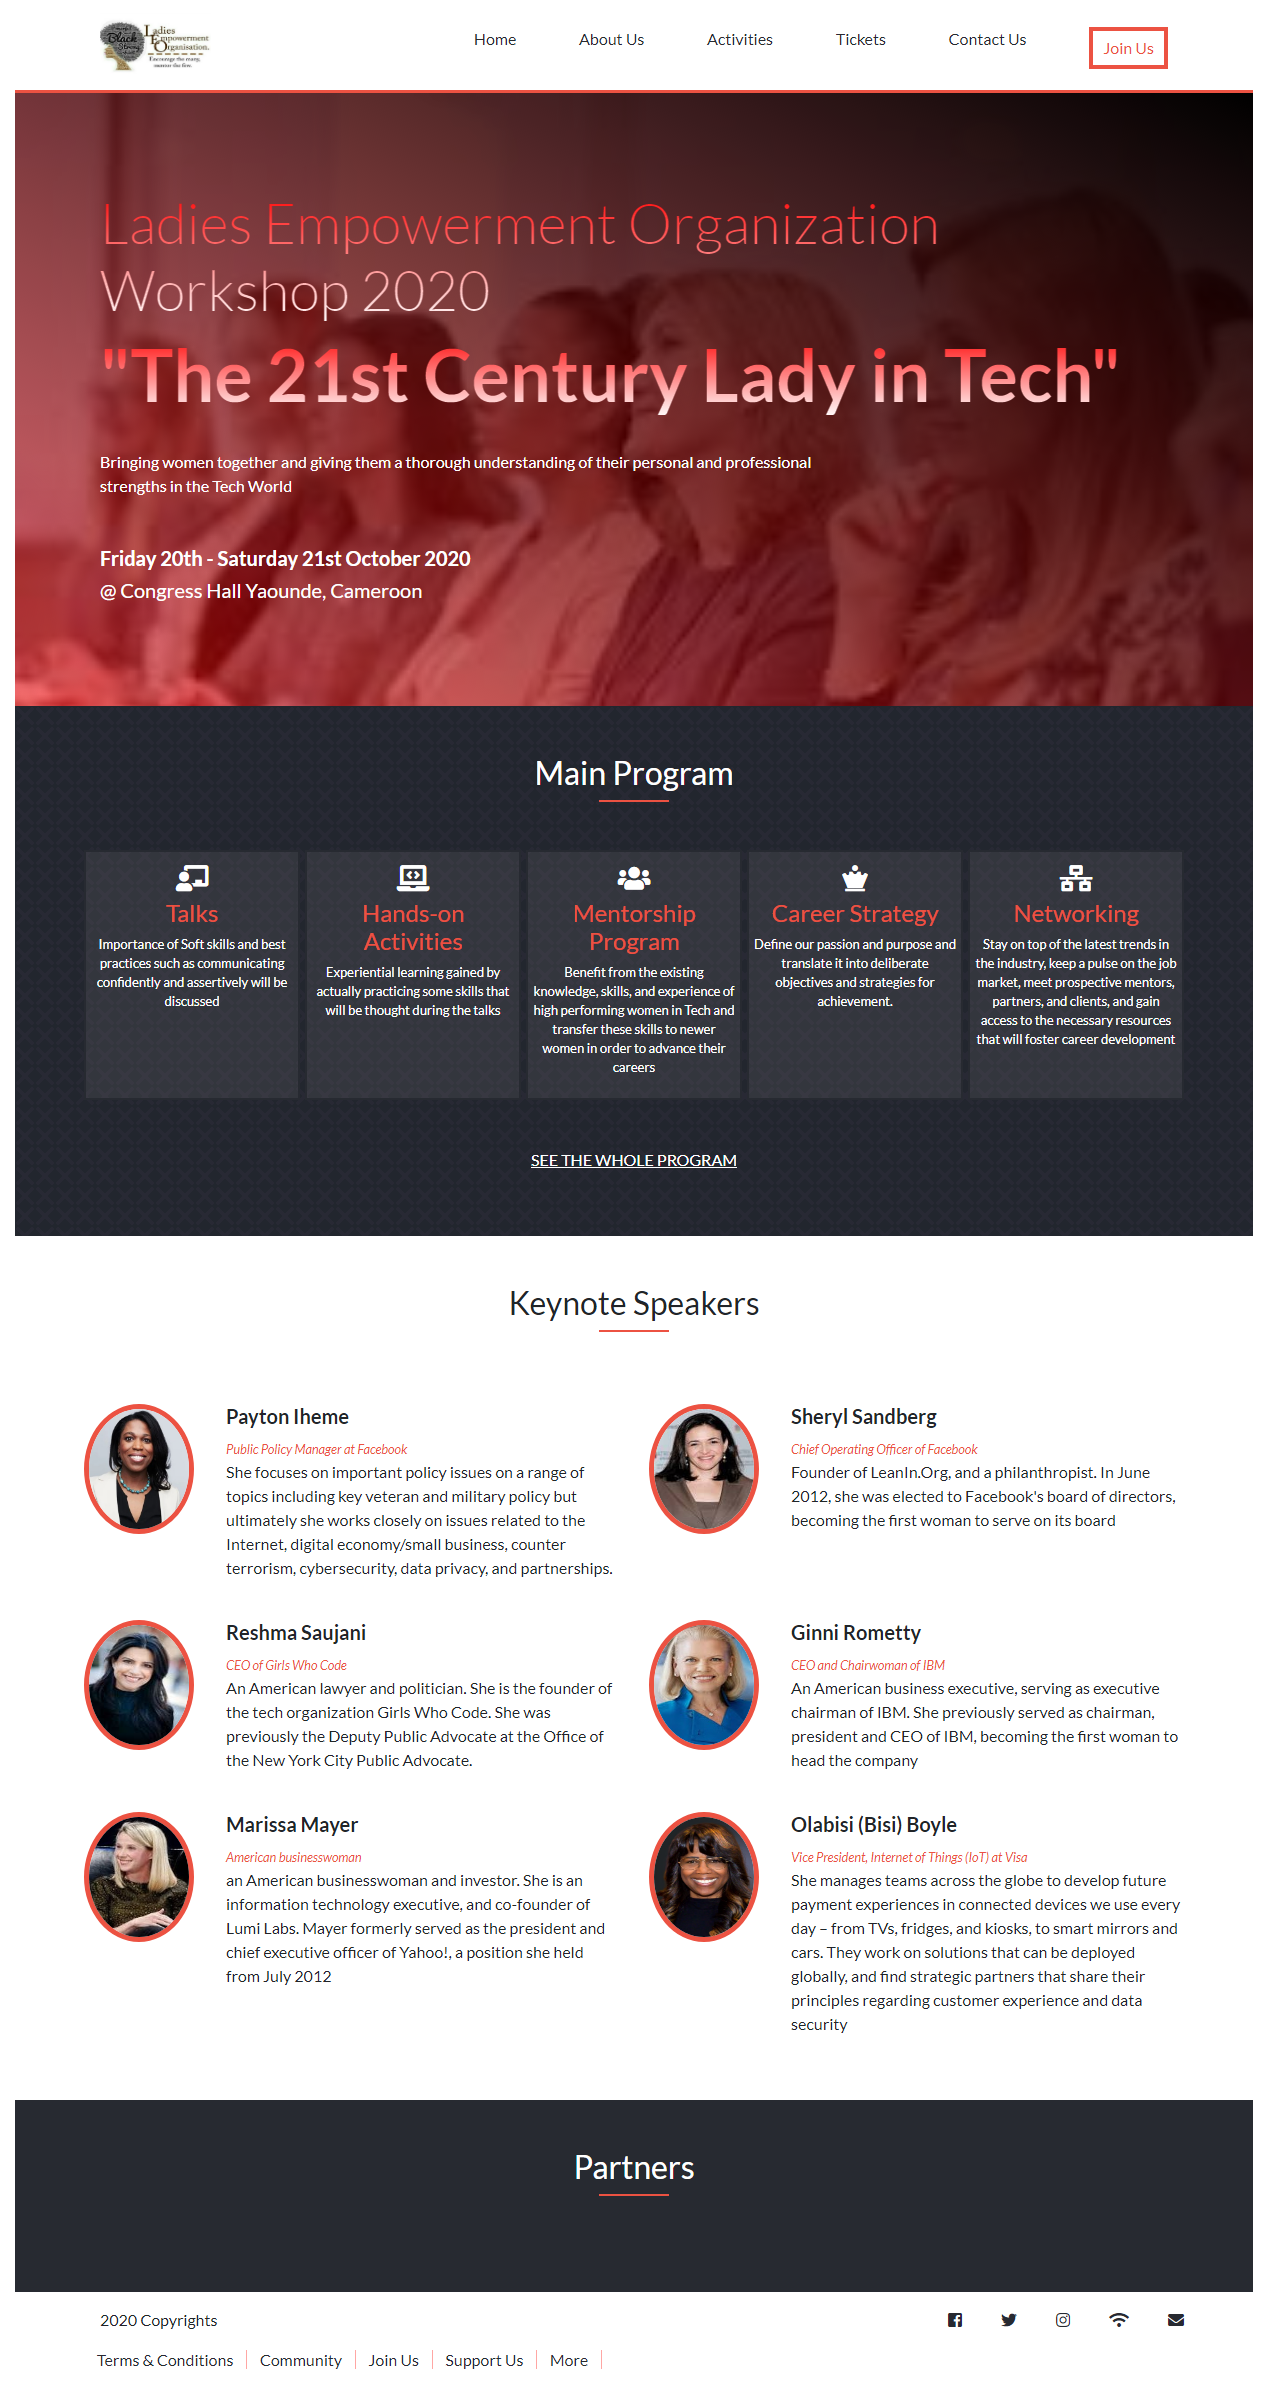
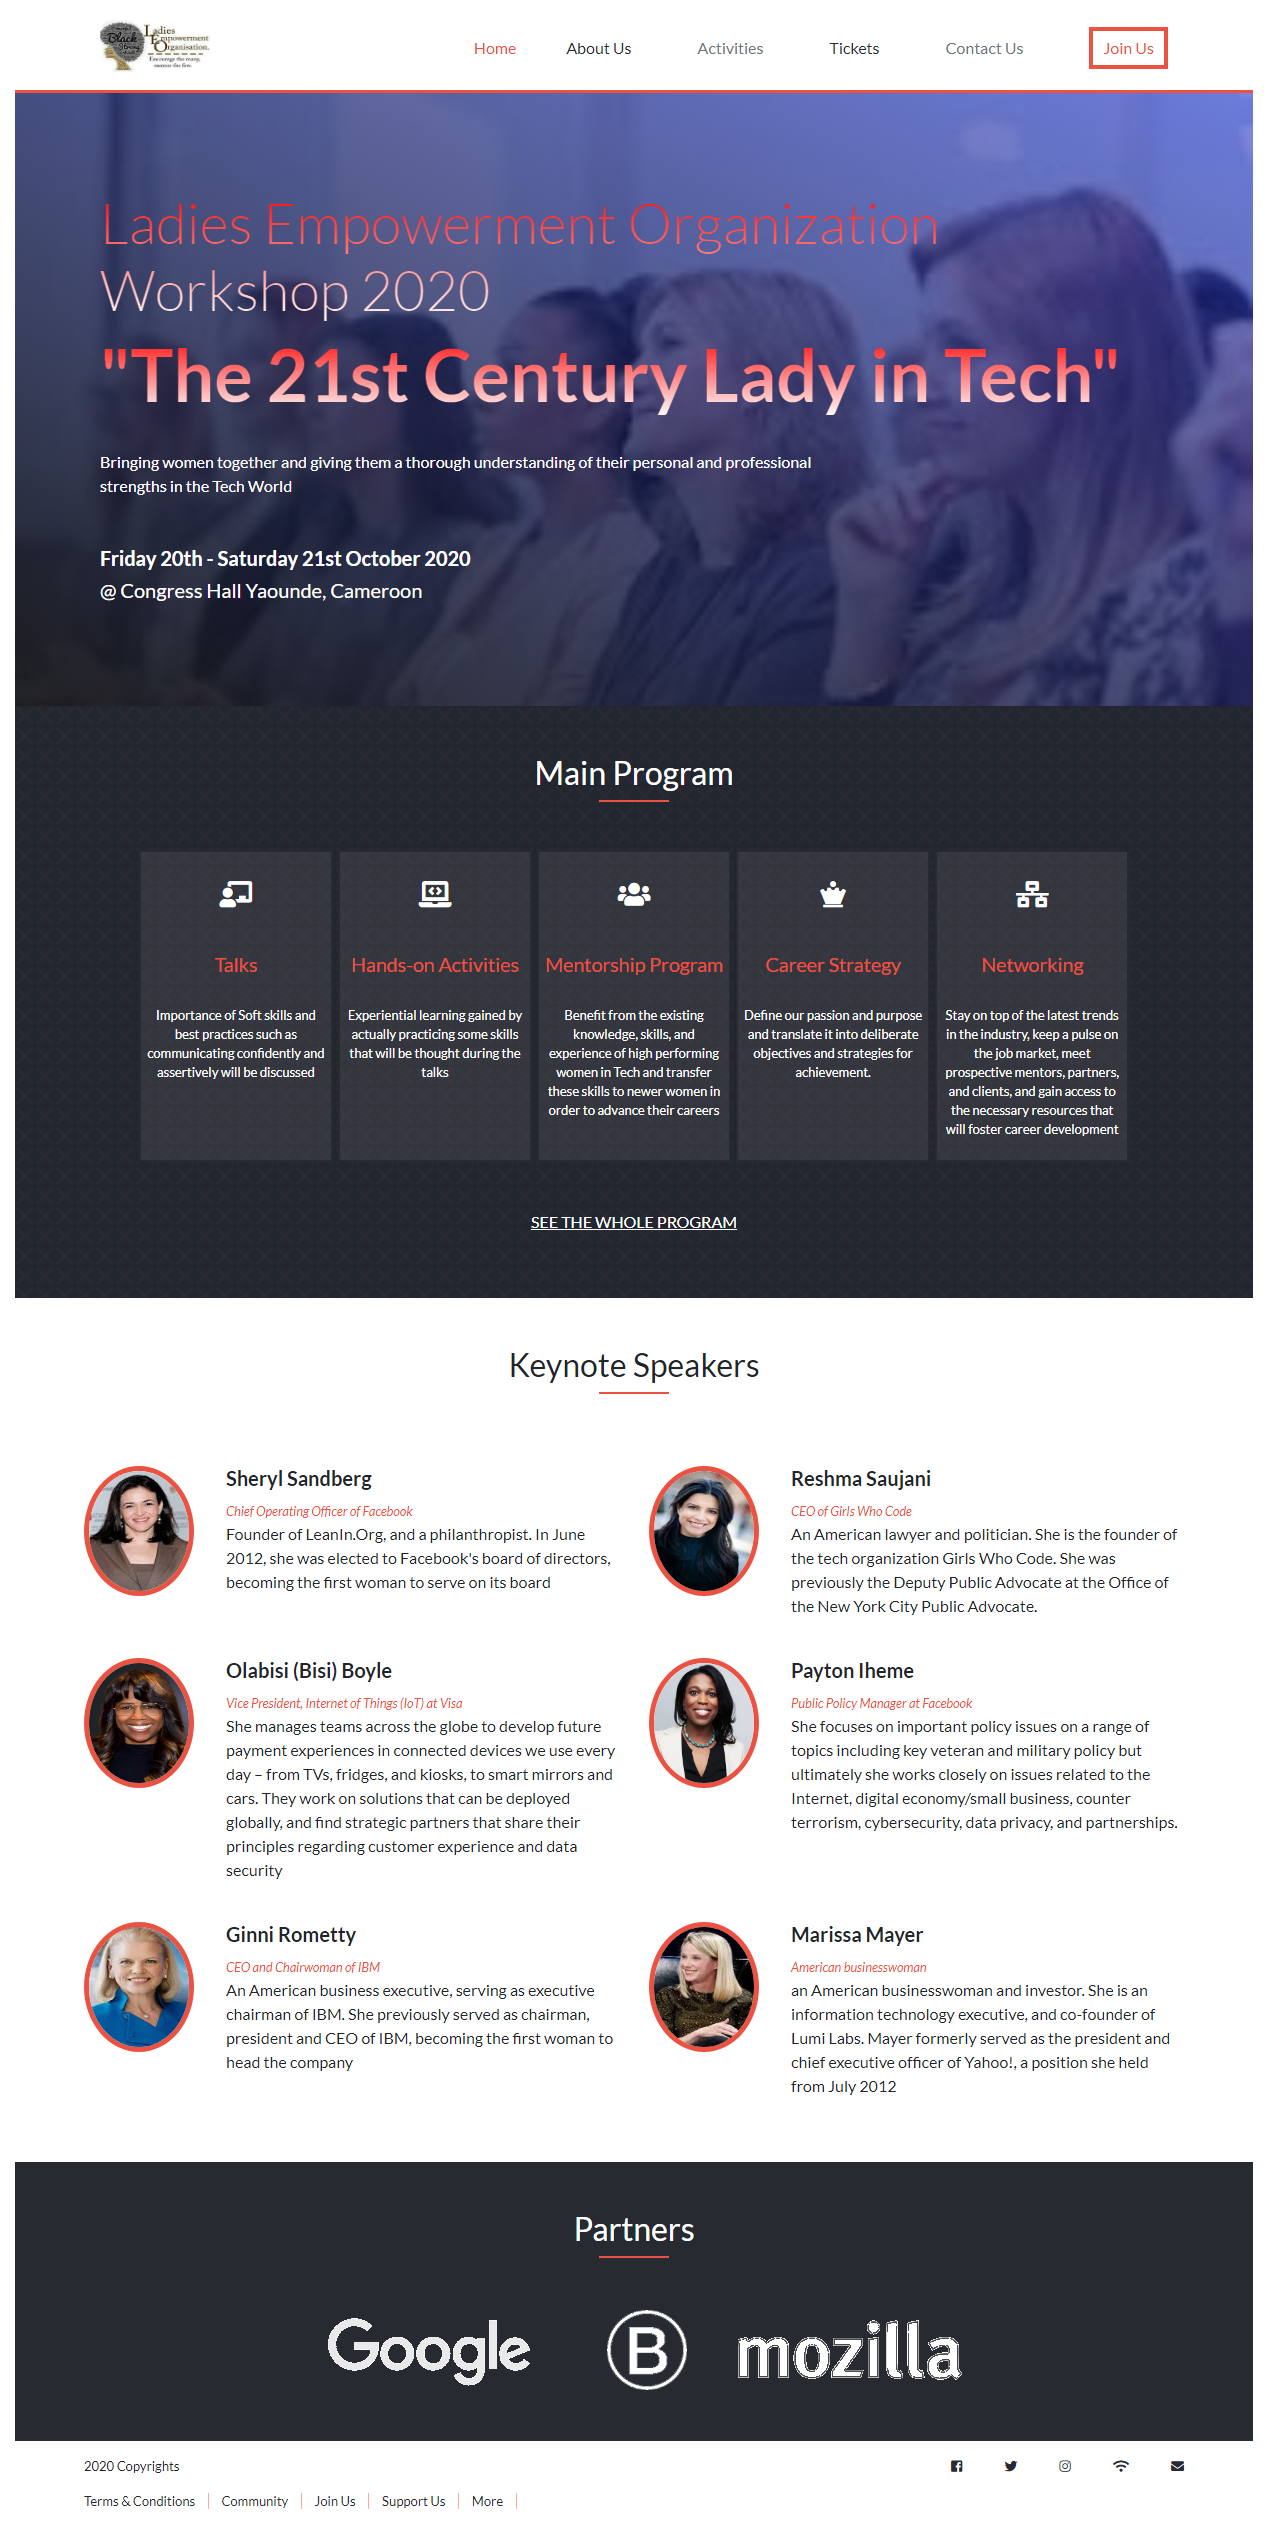
Added Screenshot of the homepage

diff --git a/about.html b/about.html
@@ -5,7 +5,7 @@
     <meta name="viewport" content="width=device-width, initial-scale=1.0">
     <link href="https://fonts.googleapis.com/css2?family=Lato:ital,wght@0,100;0,300;0,400;0,700;0,900;1,100;1,400;1,700;1,900&display=swap" rel="stylesheet">
     <link rel="stylesheet" href="https://stackpath.bootstrapcdn.com/bootstrap/4.5.0/css/bootstrap.min.css" integrity="sha384-9aIt2nRpC12Uk9gS9baDl411NQApFmC26EwAOH8WgZl5MYYxFfc+NcPb1dKGj7Sk" crossorigin="anonymous">
-    <link rel="icon" href="images/logo1.jpg">
+    <link rel="icon" href="images/logo.jpg">
     <link rel="stylesheet" href="https://use.fontawesome.com/releases/v5.7.0/css/all.css" integrity="sha384-lZN37f5QGtY3VHgisS14W3ExzMWZxybE1SJSEsQp9S+oqd12jhcu+A56Ebc1zFSJ" crossorigin="anonymous">
     <link rel="stylesheet" href="styles/main.css"> 
     <script src="https://ajax.googleapis.com/ajax/libs/jquery/3.5.1/jquery.min.js"></script>

diff --git a/index.html b/index.html
@@ -5,7 +5,7 @@
     <meta name="viewport" content="width=device-width, initial-scale=1.0">
     <link href="https://fonts.googleapis.com/css2?family=Lato:ital,wght@0,100;0,300;0,400;0,700;0,900;1,100;1,400;1,700;1,900&display=swap" rel="stylesheet">
     <link rel="stylesheet" href="https://stackpath.bootstrapcdn.com/bootstrap/4.5.0/css/bootstrap.min.css" integrity="sha384-9aIt2nRpC12Uk9gS9baDl411NQApFmC26EwAOH8WgZl5MYYxFfc+NcPb1dKGj7Sk" crossorigin="anonymous">
-    <link rel="icon" href="images/logo1.jpg">
+    <link rel="icon" href="images/logo.jpg">
     <link rel="stylesheet" href="https://use.fontawesome.com/releases/v5.7.0/css/all.css" integrity="sha384-lZN37f5QGtY3VHgisS14W3ExzMWZxybE1SJSEsQp9S+oqd12jhcu+A56Ebc1zFSJ" crossorigin="anonymous">
     <link rel="stylesheet" href="styles/main.css">
     <script src="https://ajax.googleapis.com/ajax/libs/jquery/3.5.1/jquery.min.js"></script>

diff --git a/tickets.html b/tickets.html
@@ -5,7 +5,7 @@
     <meta name="viewport" content="width=device-width, initial-scale=1.0">
     <link href="https://fonts.googleapis.com/css2?family=Lato:ital,wght@0,100;0,300;0,400;0,700;0,900;1,100;1,400;1,700;1,900&display=swap" rel="stylesheet">
     <link rel="stylesheet" href="https://stackpath.bootstrapcdn.com/bootstrap/4.5.0/css/bootstrap.min.css" integrity="sha384-9aIt2nRpC12Uk9gS9baDl411NQApFmC26EwAOH8WgZl5MYYxFfc+NcPb1dKGj7Sk" crossorigin="anonymous">
-    <link rel="icon" href="images/logo1.jpg">
+    <link rel="icon" href="images/logo.jpg">
     <link rel="stylesheet" href="https://use.fontawesome.com/releases/v5.7.0/css/all.css" integrity="sha384-lZN37f5QGtY3VHgisS14W3ExzMWZxybE1SJSEsQp9S+oqd12jhcu+A56Ebc1zFSJ" crossorigin="anonymous">
     <link rel="stylesheet" href="styles/main.css">
     <script src="https://ajax.googleapis.com/ajax/libs/jquery/3.5.1/jquery.min.js"></script>

diff --git a/styles/main.css b/styles/main.css
@@ -48,7 +48,7 @@ nav {
     font-size: 30px; }
 
 header {
-  background-image: linear-gradient(to top right, rgba(24, 25, 27, 0.952), rgba(21, 39, 201, 0.541)), url("/images/download.jpg");
+  background-image: linear-gradient(to top right, rgba(24, 25, 27, 0.952), rgba(21, 39, 201, 0.541)), url("../images/download.jpg");
   background-repeat: no-repeat;
   background-size: cover;
   display: flex;

diff --git a/sass/_header.scss b/sass/_header.scss
@@ -1,7 +1,7 @@
 header {
     background-image: 
       linear-gradient(to top right, rgba(24, 25, 27, 0.952), rgba(21, 39, 201, 0.541)),
-      url('/images/download.jpg');
+      url('../images/download.jpg');
     background-repeat: no-repeat;
     background-size: cover;
     display: flex;
